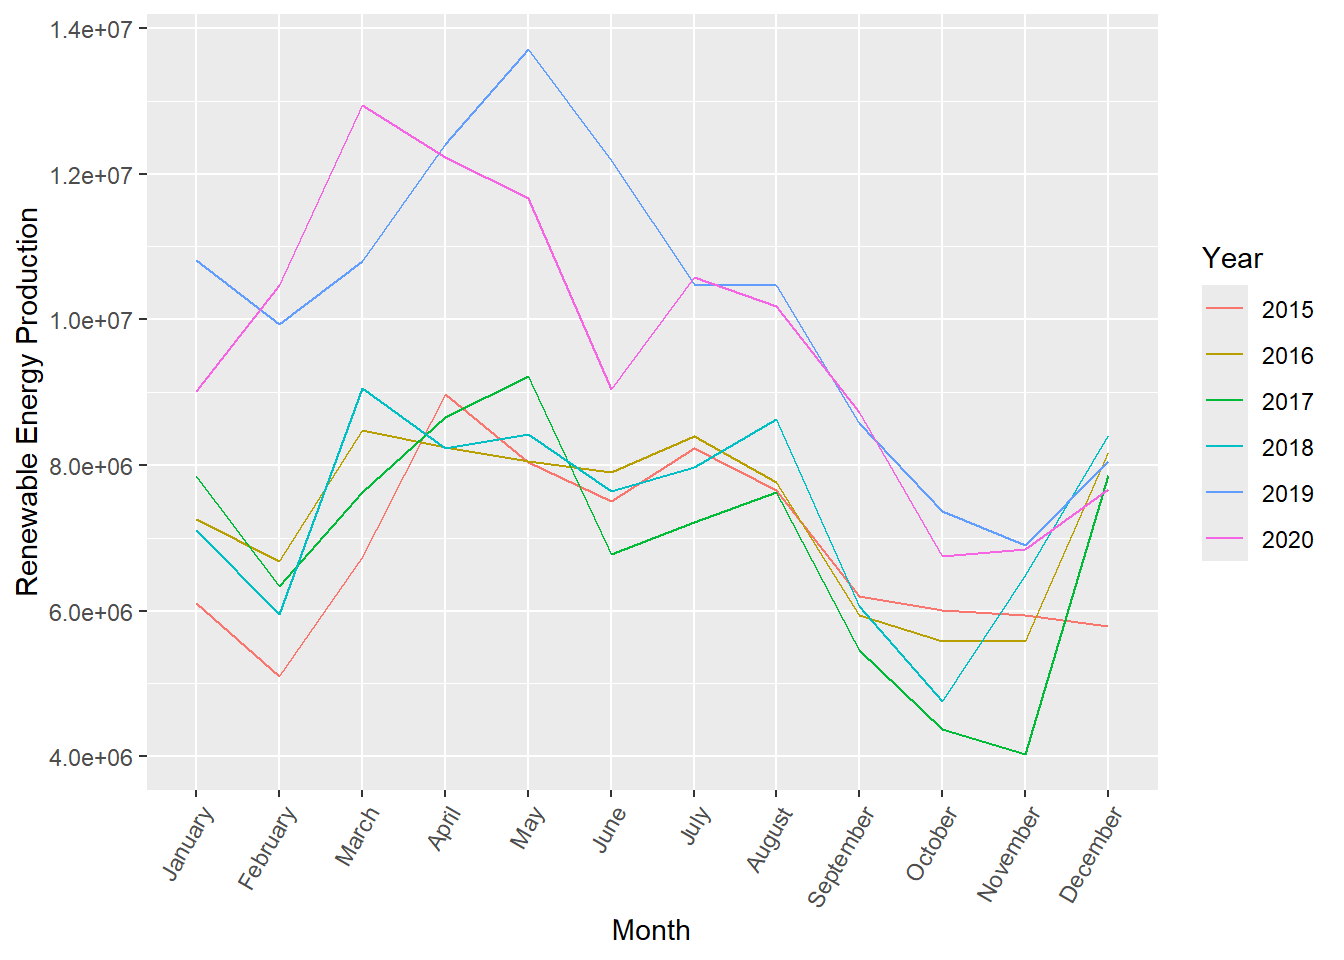
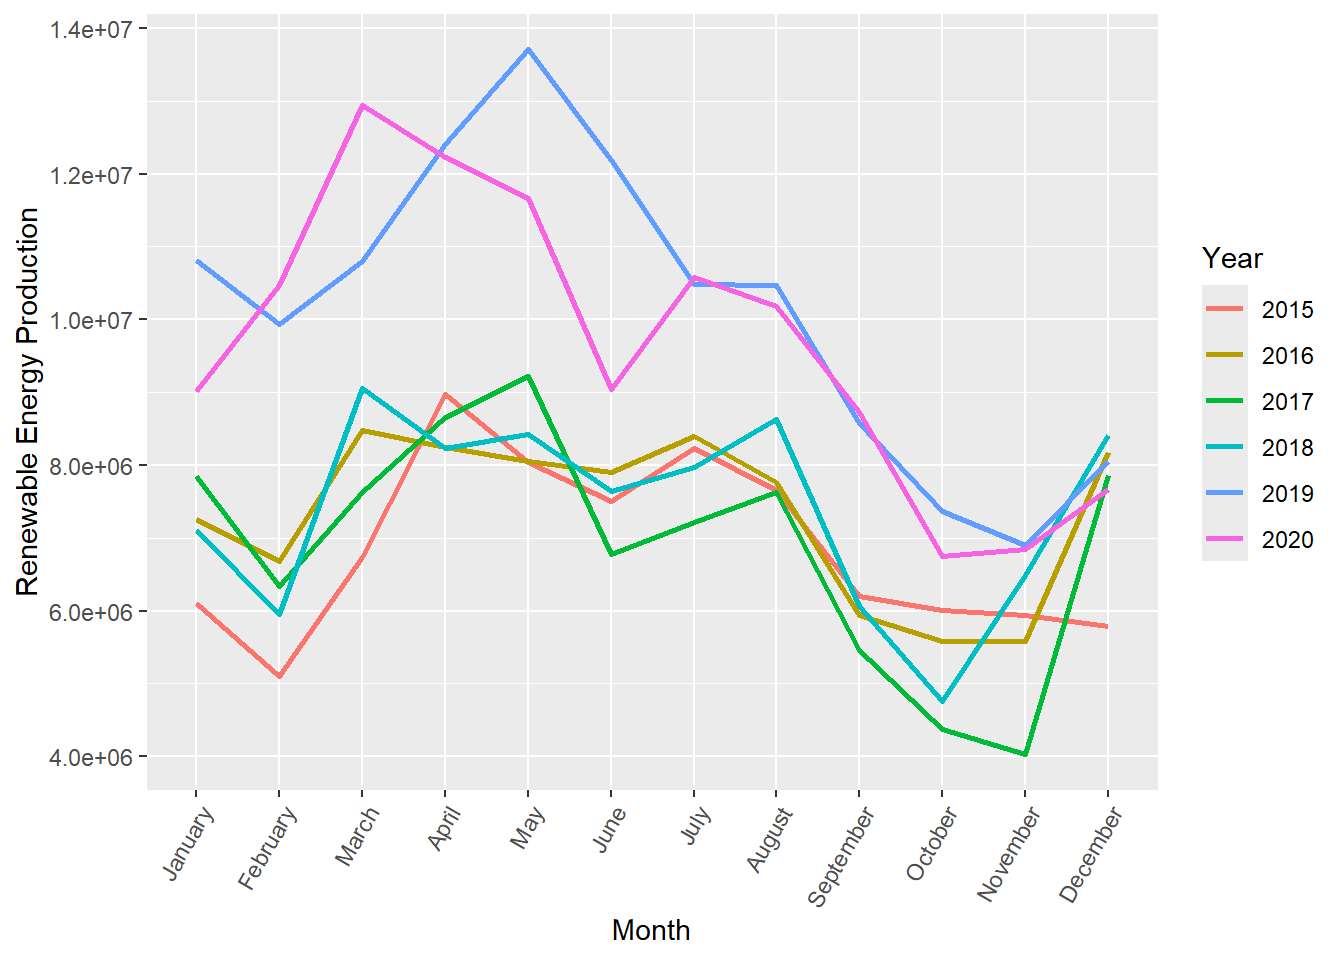
2035

diff --git a/docs/project.html b/docs/project.html
@@ -273,6 +273,7 @@ Show the code
 #   `Import-Export` &lt;dbl&gt;, `Waste Heat` &lt;dbl&gt;</code></pre>
 </div>
 </div>
+<p>&lt;/details&gt;</p>
 <p><a href="https://data.tuik.gov.tr/Bulten/Index?p=Greenhouse-Gas-Emissions-Statistics-1990-2021-49672&amp;dil=2">The Greenhouse Gas Emissions</a>:</p>
 <p>Greenhouse Gas Emissions Statistics by sector, 2015-2021 is as follows:</p>
 <details>
@@ -294,6 +295,7 @@ Show the code
 5 Waste                           17.1   16.7   16.3   16.6   16.1   16.3   14.7</code></pre>
 </div>
 </div>
+<p>&lt;/details&gt;</p>
 <p><a href="https://edgar.jrc.ec.europa.eu/dataset_ghg80">CO2 emission time series</a> :</p>
 <p>Monthly emission time series (1970-2022) by sector and country are provided in an overview table (.xls) for the three main greenhouse gases</p>
 <p>For example, CO2 emission data for the first 6 months of 2015 is as follows:</p>
@@ -370,6 +372,7 @@ Show the code
 <span id="cb11-2"><a href="#cb11-2" aria-hidden="true" tabindex="-1"></a><span class="co">#install.packages("ggplot2") </span></span>
 <span id="cb11-3"><a href="#cb11-3" aria-hidden="true" tabindex="-1"></a><span class="fu">library</span>(ggplot2)</span></code><button title="Copy to Clipboard" class="code-copy-button"><i class="bi"></i></button></pre></div>
 </div>
+<p>&lt;/details&gt;</p>
 <details>
 <summary>
 Show the code
@@ -378,9 +381,14 @@ Show the code
 <div class="sourceCode cell-code" id="cb12"><pre class="sourceCode r code-with-copy"><code class="sourceCode r"><span id="cb12-1"><a href="#cb12-1" aria-hidden="true" tabindex="-1"></a>combined_data_2015_2020 <span class="ot">&lt;-</span> <span class="fu">rbind</span>(prod_monthly_2015, prod_monthly_2020)</span>
 <span id="cb12-2"><a href="#cb12-2" aria-hidden="true" tabindex="-1"></a>combined_data_2015_2020<span class="sc">$</span>Year <span class="ot">&lt;-</span> <span class="fu">factor</span>(<span class="fu">rep</span>(<span class="fu">c</span>(<span class="st">"2015"</span>, <span class="st">"2020"</span>), <span class="at">each =</span> <span class="fu">nrow</span>(prod_monthly_2015)))</span>
 <span id="cb12-3"><a href="#cb12-3" aria-hidden="true" tabindex="-1"></a></span>
-<span id="cb12-4"><a href="#cb12-4" aria-hidden="true" tabindex="-1"></a></span>
-<span id="cb12-5"><a href="#cb12-5" aria-hidden="true" tabindex="-1"></a><span class="fu">ggplot</span>(combined_data_2015_2020) <span class="sc">+</span></span>
-<span id="cb12-6"><a href="#cb12-6" aria-hidden="true" tabindex="-1"></a>  <span class="fu">geom_line</span>(<span class="fu">aes</span>(<span class="at">x =</span> Date, <span class="at">y =</span> Total, <span class="at">color =</span> Year, <span class="at">group=</span>Year))</span></code><button title="Copy to Clipboard" class="code-copy-button"><i class="bi"></i></button></pre></div>
+<span id="cb12-4"><a href="#cb12-4" aria-hidden="true" tabindex="-1"></a>months_ordered <span class="ot">&lt;-</span> <span class="fu">c</span>(<span class="st">"January"</span>, <span class="st">"February"</span>, <span class="st">"March"</span>, <span class="st">"April"</span>, <span class="st">"May"</span>, <span class="st">"June"</span>, </span>
+<span id="cb12-5"><a href="#cb12-5" aria-hidden="true" tabindex="-1"></a>                    <span class="st">"July"</span>, <span class="st">"August"</span>, <span class="st">"September"</span>, <span class="st">"October"</span>, <span class="st">"November"</span>, <span class="st">"December"</span>)</span>
+<span id="cb12-6"><a href="#cb12-6" aria-hidden="true" tabindex="-1"></a></span>
+<span id="cb12-7"><a href="#cb12-7" aria-hidden="true" tabindex="-1"></a>combined_data_2015_2020<span class="sc">$</span>Date <span class="ot">&lt;-</span> <span class="fu">factor</span>(combined_data_2015_2020<span class="sc">$</span>Date, <span class="at">levels =</span> months_ordered)</span>
+<span id="cb12-8"><a href="#cb12-8" aria-hidden="true" tabindex="-1"></a></span>
+<span id="cb12-9"><a href="#cb12-9" aria-hidden="true" tabindex="-1"></a><span class="fu">ggplot</span>(combined_data_2015_2020) <span class="sc">+</span></span>
+<span id="cb12-10"><a href="#cb12-10" aria-hidden="true" tabindex="-1"></a>  <span class="fu">geom_line</span>(<span class="fu">aes</span>(<span class="at">x =</span> Date, <span class="at">y =</span> Total, <span class="at">color =</span> Year, <span class="at">group=</span>Year)) <span class="sc">+</span></span>
+<span id="cb12-11"><a href="#cb12-11" aria-hidden="true" tabindex="-1"></a>  <span class="fu">theme</span>(<span class="at">axis.text.x =</span> <span class="fu">element_text</span>(<span class="at">angle =</span> <span class="dv">60</span>, <span class="at">hjust =</span> <span class="dv">1</span>)) </span></code><button title="Copy to Clipboard" class="code-copy-button"><i class="bi"></i></button></pre></div>
 <div class="cell-output-display">
 <div>
 <figure class="figure">
@@ -428,25 +436,24 @@ Attaching package: 'dplyr'</code></pre>
 <div class="sourceCode cell-code" id="cb17"><pre class="sourceCode r code-with-copy"><code class="sourceCode r"><span id="cb17-1"><a href="#cb17-1" aria-hidden="true" tabindex="-1"></a><span class="fu">library</span>(magrittr)</span>
 <span id="cb17-2"><a href="#cb17-2" aria-hidden="true" tabindex="-1"></a></span>
 <span id="cb17-3"><a href="#cb17-3" aria-hidden="true" tabindex="-1"></a>combined_data_from2015to2020 <span class="ot">&lt;-</span> combined_data_from2015to2020 <span class="sc">%&gt;%</span> <span class="fu">rename</span>(<span class="at">month =</span> Date)</span>
-<span id="cb17-4"><a href="#cb17-4" aria-hidden="true" tabindex="-1"></a>months_ordered <span class="ot">&lt;-</span> <span class="fu">c</span>(<span class="st">"January"</span>, <span class="st">"February"</span>, <span class="st">"March"</span>, <span class="st">"April"</span>, <span class="st">"May"</span>, <span class="st">"June"</span>, </span>
-<span id="cb17-5"><a href="#cb17-5" aria-hidden="true" tabindex="-1"></a>                    <span class="st">"July"</span>, <span class="st">"August"</span>, <span class="st">"September"</span>, <span class="st">"October"</span>, <span class="st">"November"</span>, <span class="st">"December"</span>)</span>
-<span id="cb17-6"><a href="#cb17-6" aria-hidden="true" tabindex="-1"></a></span>
-<span id="cb17-7"><a href="#cb17-7" aria-hidden="true" tabindex="-1"></a>combined_data_from2015to2020<span class="sc">$</span>month <span class="ot">&lt;-</span> <span class="fu">factor</span>(combined_data_from2015to2020<span class="sc">$</span>month, <span class="at">levels =</span> months_ordered)</span>
-<span id="cb17-8"><a href="#cb17-8" aria-hidden="true" tabindex="-1"></a></span>
-<span id="cb17-9"><a href="#cb17-9" aria-hidden="true" tabindex="-1"></a>renewable_data_from2015to2020 <span class="ot">&lt;-</span> combined_data_from2015to2020 <span class="sc">%&gt;%</span> <span class="fu">select</span>(<span class="st">"month"</span>, <span class="st">"Year"</span>, <span class="st">"Wind"</span>, <span class="st">"Solar"</span>, <span class="st">"Geothermal"</span>, <span class="st">"River"</span>, <span class="st">"Dammed Hydro"</span>, <span class="st">"Biomass"</span>)</span>
-<span id="cb17-10"><a href="#cb17-10" aria-hidden="true" tabindex="-1"></a></span>
-<span id="cb17-11"><a href="#cb17-11" aria-hidden="true" tabindex="-1"></a>renewable_data_from2015to2020 <span class="ot">&lt;-</span> renewable_data_from2015to2020 <span class="sc">%&gt;%</span></span>
-<span id="cb17-12"><a href="#cb17-12" aria-hidden="true" tabindex="-1"></a>  <span class="fu">mutate</span>(<span class="at">Renewable_Total =</span> <span class="fu">rowSums</span>(<span class="fu">select</span>(., <span class="fu">c</span>(<span class="st">"Wind"</span>, <span class="st">"Solar"</span>, <span class="st">"Geothermal"</span>, <span class="st">"River"</span>, <span class="st">"Dammed Hydro"</span>, <span class="st">"Biomass"</span>))))</span>
+<span id="cb17-4"><a href="#cb17-4" aria-hidden="true" tabindex="-1"></a></span>
+<span id="cb17-5"><a href="#cb17-5" aria-hidden="true" tabindex="-1"></a></span>
+<span id="cb17-6"><a href="#cb17-6" aria-hidden="true" tabindex="-1"></a>combined_data_from2015to2020<span class="sc">$</span>month <span class="ot">&lt;-</span> <span class="fu">factor</span>(combined_data_from2015to2020<span class="sc">$</span>month, <span class="at">levels =</span> months_ordered)</span>
+<span id="cb17-7"><a href="#cb17-7" aria-hidden="true" tabindex="-1"></a></span>
+<span id="cb17-8"><a href="#cb17-8" aria-hidden="true" tabindex="-1"></a>renewable_data_from2015to2020 <span class="ot">&lt;-</span> combined_data_from2015to2020 <span class="sc">%&gt;%</span> <span class="fu">select</span>(<span class="st">"month"</span>, <span class="st">"Year"</span>, <span class="st">"Wind"</span>, <span class="st">"Solar"</span>, <span class="st">"Geothermal"</span>, <span class="st">"River"</span>, <span class="st">"Dammed Hydro"</span>, <span class="st">"Biomass"</span>)</span>
+<span id="cb17-9"><a href="#cb17-9" aria-hidden="true" tabindex="-1"></a></span>
+<span id="cb17-10"><a href="#cb17-10" aria-hidden="true" tabindex="-1"></a>renewable_data_from2015to2020 <span class="ot">&lt;-</span> renewable_data_from2015to2020 <span class="sc">%&gt;%</span></span>
+<span id="cb17-11"><a href="#cb17-11" aria-hidden="true" tabindex="-1"></a>  <span class="fu">mutate</span>(<span class="at">Renewable_Total =</span> <span class="fu">rowSums</span>(<span class="fu">select</span>(., <span class="fu">c</span>(<span class="st">"Wind"</span>, <span class="st">"Solar"</span>, <span class="st">"Geothermal"</span>, <span class="st">"River"</span>, <span class="st">"Dammed Hydro"</span>, <span class="st">"Biomass"</span>))))</span>
+<span id="cb17-12"><a href="#cb17-12" aria-hidden="true" tabindex="-1"></a></span>
 <span id="cb17-13"><a href="#cb17-13" aria-hidden="true" tabindex="-1"></a></span>
-<span id="cb17-14"><a href="#cb17-14" aria-hidden="true" tabindex="-1"></a></span>
-<span id="cb17-15"><a href="#cb17-15" aria-hidden="true" tabindex="-1"></a><span class="fu">ggplot</span>(combined_data_from2015to2020) <span class="sc">+</span></span>
-<span id="cb17-16"><a href="#cb17-16" aria-hidden="true" tabindex="-1"></a>  <span class="fu">geom_line</span>(<span class="fu">aes</span>(<span class="at">x =</span> month, <span class="at">y =</span> Total, <span class="at">color =</span> Year, <span class="at">group=</span>Year))<span class="sc">+</span></span>
-<span id="cb17-17"><a href="#cb17-17" aria-hidden="true" tabindex="-1"></a>    <span class="fu">labs</span>(</span>
-<span id="cb17-18"><a href="#cb17-18" aria-hidden="true" tabindex="-1"></a>    <span class="at">x =</span> <span class="st">"Month"</span>,</span>
-<span id="cb17-19"><a href="#cb17-19" aria-hidden="true" tabindex="-1"></a>    <span class="at">y =</span> <span class="st">"Total Energy Production"</span>,</span>
-<span id="cb17-20"><a href="#cb17-20" aria-hidden="true" tabindex="-1"></a>    </span>
-<span id="cb17-21"><a href="#cb17-21" aria-hidden="true" tabindex="-1"></a>  ) <span class="sc">+</span></span>
-<span id="cb17-22"><a href="#cb17-22" aria-hidden="true" tabindex="-1"></a>  <span class="fu">theme</span>(<span class="at">axis.text.x =</span> <span class="fu">element_text</span>(<span class="at">angle =</span> <span class="dv">60</span>, <span class="at">hjust =</span> <span class="dv">1</span>)) </span></code><button title="Copy to Clipboard" class="code-copy-button"><i class="bi"></i></button></pre></div>
+<span id="cb17-14"><a href="#cb17-14" aria-hidden="true" tabindex="-1"></a><span class="fu">ggplot</span>(combined_data_from2015to2020) <span class="sc">+</span></span>
+<span id="cb17-15"><a href="#cb17-15" aria-hidden="true" tabindex="-1"></a>  <span class="fu">geom_line</span>(<span class="fu">aes</span>(<span class="at">x =</span> month, <span class="at">y =</span> Total, <span class="at">color =</span> Year, <span class="at">group=</span>Year))<span class="sc">+</span></span>
+<span id="cb17-16"><a href="#cb17-16" aria-hidden="true" tabindex="-1"></a>    <span class="fu">labs</span>(</span>
+<span id="cb17-17"><a href="#cb17-17" aria-hidden="true" tabindex="-1"></a>    <span class="at">x =</span> <span class="st">"Month"</span>,</span>
+<span id="cb17-18"><a href="#cb17-18" aria-hidden="true" tabindex="-1"></a>    <span class="at">y =</span> <span class="st">"Total Energy Production"</span>,</span>
+<span id="cb17-19"><a href="#cb17-19" aria-hidden="true" tabindex="-1"></a>    </span>
+<span id="cb17-20"><a href="#cb17-20" aria-hidden="true" tabindex="-1"></a>  ) <span class="sc">+</span></span>
+<span id="cb17-21"><a href="#cb17-21" aria-hidden="true" tabindex="-1"></a>  <span class="fu">theme</span>(<span class="at">axis.text.x =</span> <span class="fu">element_text</span>(<span class="at">angle =</span> <span class="dv">60</span>, <span class="at">hjust =</span> <span class="dv">1</span>)) </span></code><button title="Copy to Clipboard" class="code-copy-button"><i class="bi"></i></button></pre></div>
 <div class="cell-output-display">
 <div>
 <figure class="figure">
@@ -455,10 +462,11 @@ Attaching package: 'dplyr'</code></pre>
 </div>
 </div>
 </div>
+<p>&lt;/details&gt;</p>
 <p>The graph above shows that no solar energy was produced in 2015.</p>
 <div class="cell">
 <div class="sourceCode cell-code" id="cb18"><pre class="sourceCode r code-with-copy"><code class="sourceCode r"><span id="cb18-1"><a href="#cb18-1" aria-hidden="true" tabindex="-1"></a><span class="fu">ggplot</span>(combined_data_from2015to2020) <span class="sc">+</span></span>
-<span id="cb18-2"><a href="#cb18-2" aria-hidden="true" tabindex="-1"></a>  <span class="fu">geom_line</span>(<span class="fu">aes</span>(<span class="at">x =</span> month, <span class="at">y =</span> Solar, <span class="at">color =</span> Year, <span class="at">group=</span>Year))<span class="sc">+</span></span>
+<span id="cb18-2"><a href="#cb18-2" aria-hidden="true" tabindex="-1"></a>  <span class="fu">geom_line</span>(<span class="at">linewidth =</span> <span class="dv">1</span>,<span class="fu">aes</span>(<span class="at">x =</span> month, <span class="at">y =</span> Solar, <span class="at">color =</span> Year, <span class="at">group=</span>Year))<span class="sc">+</span></span>
 <span id="cb18-3"><a href="#cb18-3" aria-hidden="true" tabindex="-1"></a>  <span class="fu">labs</span>(</span>
 <span id="cb18-4"><a href="#cb18-4" aria-hidden="true" tabindex="-1"></a>    <span class="at">x =</span> <span class="st">"Month"</span>,</span>
 <span id="cb18-5"><a href="#cb18-5" aria-hidden="true" tabindex="-1"></a>    <span class="at">y =</span> <span class="st">"Solar Energy Production"</span>,</span>
@@ -474,10 +482,11 @@ Attaching package: 'dplyr'</code></pre>
 </div>
 </div>
 </div>
+<p>&lt;/details&gt;</p>
 <p>The graph above shows renewable energy production.</p>
 <div class="cell">
 <div class="sourceCode cell-code" id="cb19"><pre class="sourceCode r code-with-copy"><code class="sourceCode r"><span id="cb19-1"><a href="#cb19-1" aria-hidden="true" tabindex="-1"></a><span class="fu">ggplot</span>(renewable_data_from2015to2020) <span class="sc">+</span></span>
-<span id="cb19-2"><a href="#cb19-2" aria-hidden="true" tabindex="-1"></a>  <span class="fu">geom_line</span>(<span class="fu">aes</span>(<span class="at">x =</span> month, <span class="at">y =</span> Renewable_Total, <span class="at">color =</span> Year, <span class="at">group=</span>Year))<span class="sc">+</span></span>
+<span id="cb19-2"><a href="#cb19-2" aria-hidden="true" tabindex="-1"></a>  <span class="fu">geom_line</span>(<span class="at">linewidth =</span> <span class="dv">1</span>,<span class="fu">aes</span>(<span class="at">x =</span> month, <span class="at">y =</span> Renewable_Total, <span class="at">color =</span> Year, <span class="at">group=</span>Year))<span class="sc">+</span></span>
 <span id="cb19-3"><a href="#cb19-3" aria-hidden="true" tabindex="-1"></a>  <span class="fu">labs</span>(</span>
 <span id="cb19-4"><a href="#cb19-4" aria-hidden="true" tabindex="-1"></a>    <span class="at">x =</span> <span class="st">"Month"</span>,</span>
 <span id="cb19-5"><a href="#cb19-5" aria-hidden="true" tabindex="-1"></a>    <span class="at">y =</span> <span class="st">"Renewable Energy Production"</span>,</span>
@@ -525,6 +534,7 @@ Show the code
 </div>
 </div>
 </div>
+<p>&lt;/details&gt;</p>
 <p>korelasyon analizi</p>
 <details>
 <summary>
